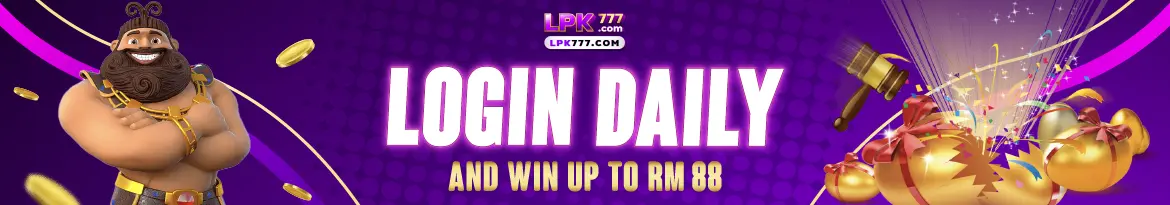
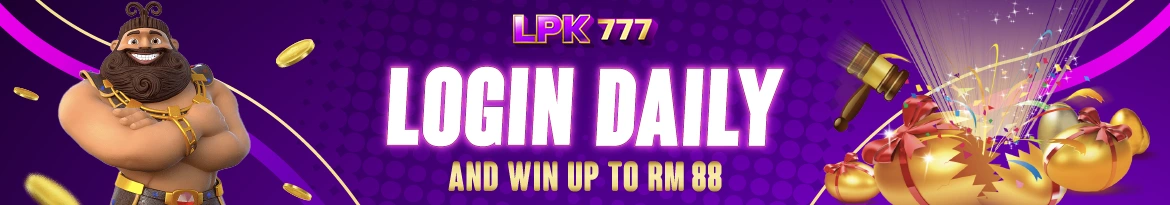
new site lpk777.tech

Changed region(s): [[0.4308, 0.0585, 0.5846, 0.2634]]

diff --git a/assets/css/style.css b/assets/css/style.css
@@ -373,7 +373,7 @@ a, button, .btn, a.button, button.btn {
     overflow: hidden;
     box-sizing: border-box;
     background-color: var(--primary-main);
-    color: var(--primary-black);
+    color: var(--primary-white);
 }
 .marquee span {
     display: inline-block;
@@ -383,7 +383,7 @@ a, button, .btn, a.button, button.btn {
     animation: marquee 15s linear infinite;
 }
 .marquee strong {
-    font-size: .8rem;
+    font-size: .7rem;
     font-weight: 400;
 }
 @keyframes marquee {

diff --git a/shortcodes/top-brand.php b/shortcodes/top-brand.php
@@ -11,16 +11,16 @@ if( $data === 'on' || $data === 1 ) {
                 <?php 
                 $brand = $top_brands[SITE_KEY];
                 // $brand_title = $brand['title'];
-                $brand_title = "WINBEBAS";
+                $brand_title = "WIN111";
                 $brand_desc = $brand['description'];
                 // $brand_thumbnail = assets_url().'/top_brand/top_brand_'.SITE_KEY.'.png';
-                $brand_thumbnail = assets_url().'/top_brand/top_brand_winbebas.png';
+                $brand_thumbnail = assets_url().'/top_brand/top_brand_win111.webp';
                 $brand_link = $brand['url'];
                 $disabled = ($tb_index > 0) ? ' disabled' : '';
                 echo '<div class="top-brand-item '.$key.' p-2">
                     <div class="top-brand-inner d-flex align-items-center justify-content-start">
                         <div class="col col-header pt-3">
-                            <div class="col-image"><img src="'.$brand_thumbnail.'" alt="winbebas-promo"/></div>
+                            <div class="col-image"><img src="'.$brand_thumbnail.'" alt="win111-welcome-bonus-140-percent"/></div>
                             <div class="col-title">'.$brand_title.'</div>
                         </div>
                         <div class="col col-desc pt-3">

diff --git a/includes/footer.php b/includes/footer.php
@@ -9,7 +9,7 @@
                         <img src="<?php echo home_url();?>/assets/images/footer-commission.png" class="icon img-fit" alt="Referrer">
                         <span class="text-center">Promosi</span>
                     </strong></a>
-                    <a href="#" class="d-flex flex-column col align-items-center justify-content-center h-100 p-0">
+                    <a href="https://win111.one/register/?affiliateCode=win111v1seo1" class="d-flex flex-column col align-items-center justify-content-center h-100 p-0">
                         <img src="<?php echo home_url();?>/assets/images/footer-commission.png" class="icon img-fit" alt="Comission">
                         <span class="text-center">Referrer</span>
                     </strong></a>

diff --git a/includes/header.php b/includes/header.php
@@ -7,7 +7,7 @@ $settings = json_decode(file_get_contents( __DIR__ . '/../data/settings.json' ),
     <head>
     <?php echo get_page_meta_tags($page);?>
     <meta name="robots" content="noindex, nofollow">
-    <meta name="google-site-verification" content="huUdaKQ9keaOQVlaoIme2Q0kXznBy1aZvk-Iq0EiBgg" />
+    <meta name="google-site-verification" content="yKaolSwxO0xvK-MjAV9NU8FGtDw_WD8GuiMgg4jAdSg">
     <base href="<?php echo home_url();?>">
     <link rel="icon" type="image/png" href="<?php echo home_url().'/assets/images/favicon/'.SITE_KEY.'_favicon.png';?>" />
     <link rel="preconnect" href="https://fonts.googleapis.com">

diff --git a/config.php b/config.php
@@ -3,11 +3,11 @@
 // CONFIGURATION & GLOBAL FUNCS
 // -----------------------------
 define('BASE_PATH', __DIR__);
-define('LOCALHOST_NAME', 'bonus888.pro');
+define('LOCALHOST_NAME', 'lpk777.tech');
 $serverPath = $_SERVER['DOCUMENT_ROOT']; // "/home/seot2/public_html/gee55.info"
 $domainFolder = basename($serverPath);
 define('DOMAIN_NAME', $domainFolder); // gee55.info
-$siteKey = 'bonus888';
+$siteKey = 'lpk777';
 if( $domainFolder !== 'htdocs' ) {
     $siteKey = explode('.', $domainFolder)[0];
 }

diff --git a/shortcodes/banner.php b/shortcodes/banner.php
@@ -5,7 +5,7 @@ if( isset($data) && !empty($data) ) {
 <section class="<?php echo $id;?> pt-0 pb-2" id="<?php echo $id.'-'.randomUniqueID();?>">
     <div class="container-fluid">
         <div class="row justify-content-center">
-            <div class="col-12 px-0">
+            <div class="col-12 px-3">
                 <div class="swiper banner-swiper" id="banner-swiper-<?php echo randomUniqueID();?>">
                     <div class="swiper-wrapper">
                     <?php
